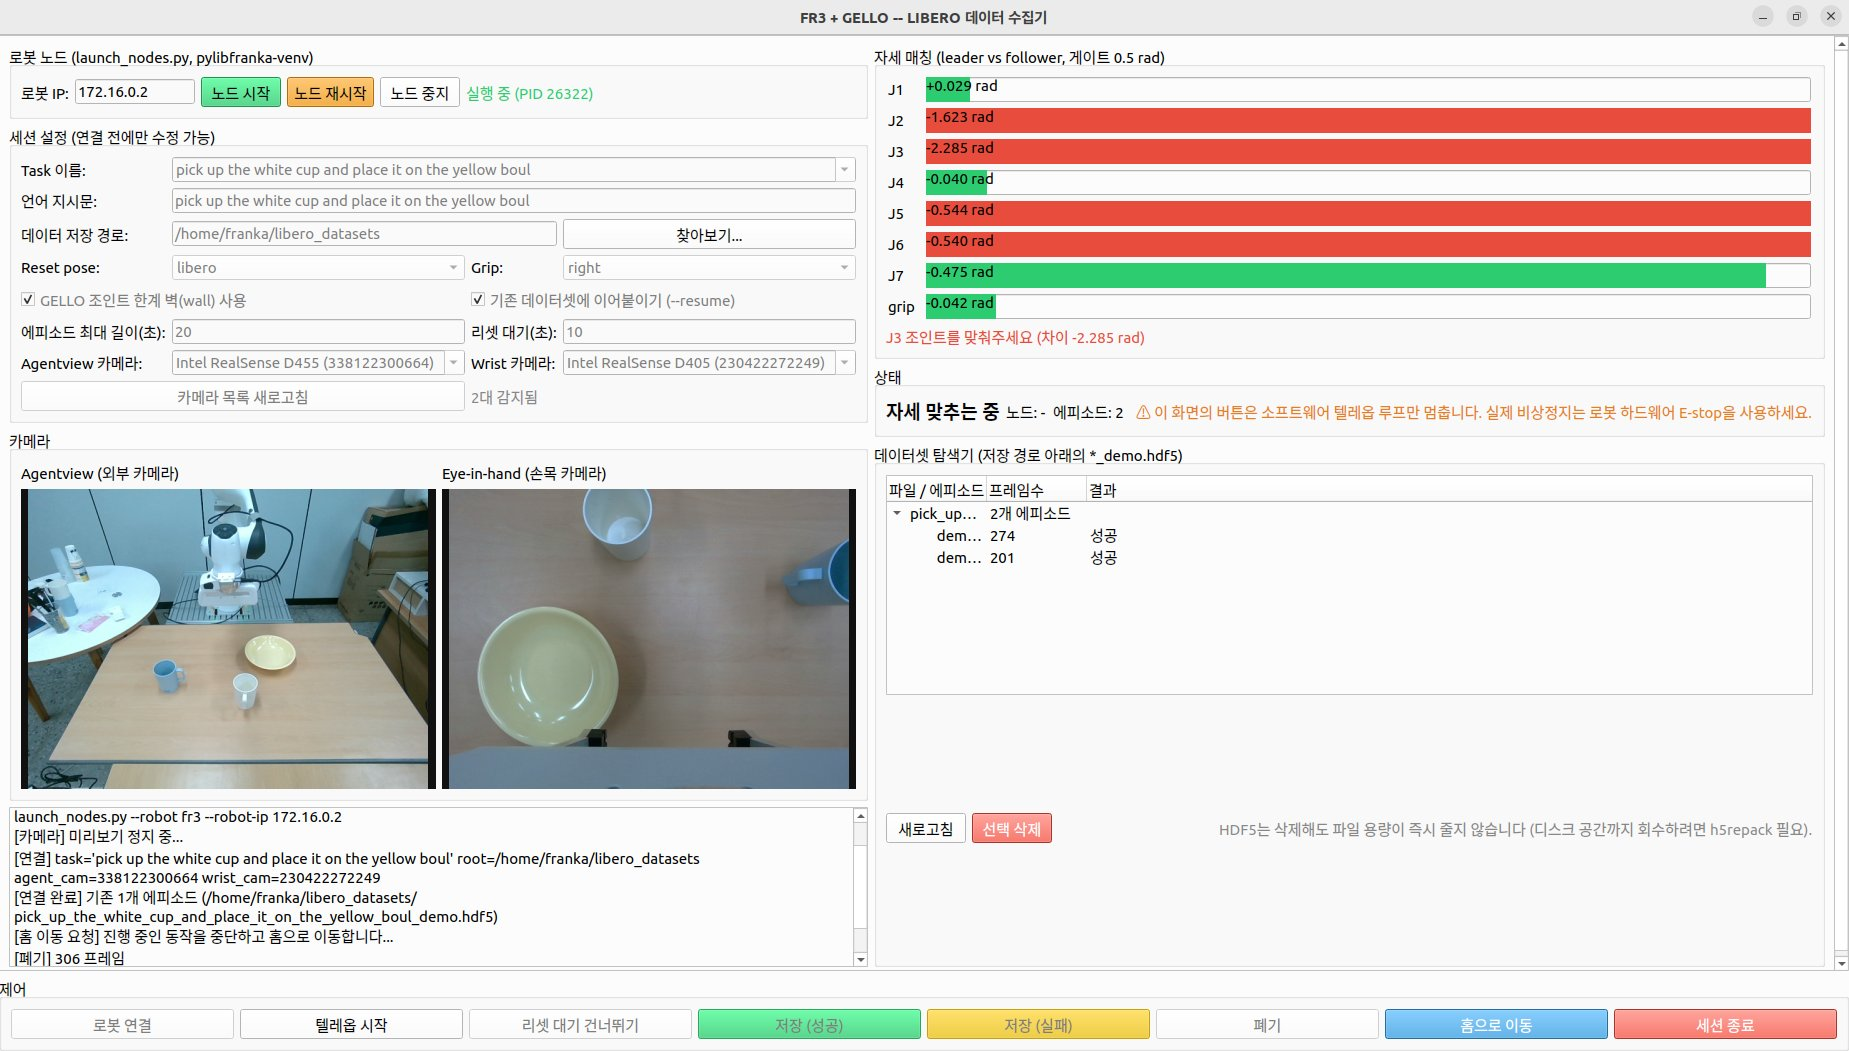
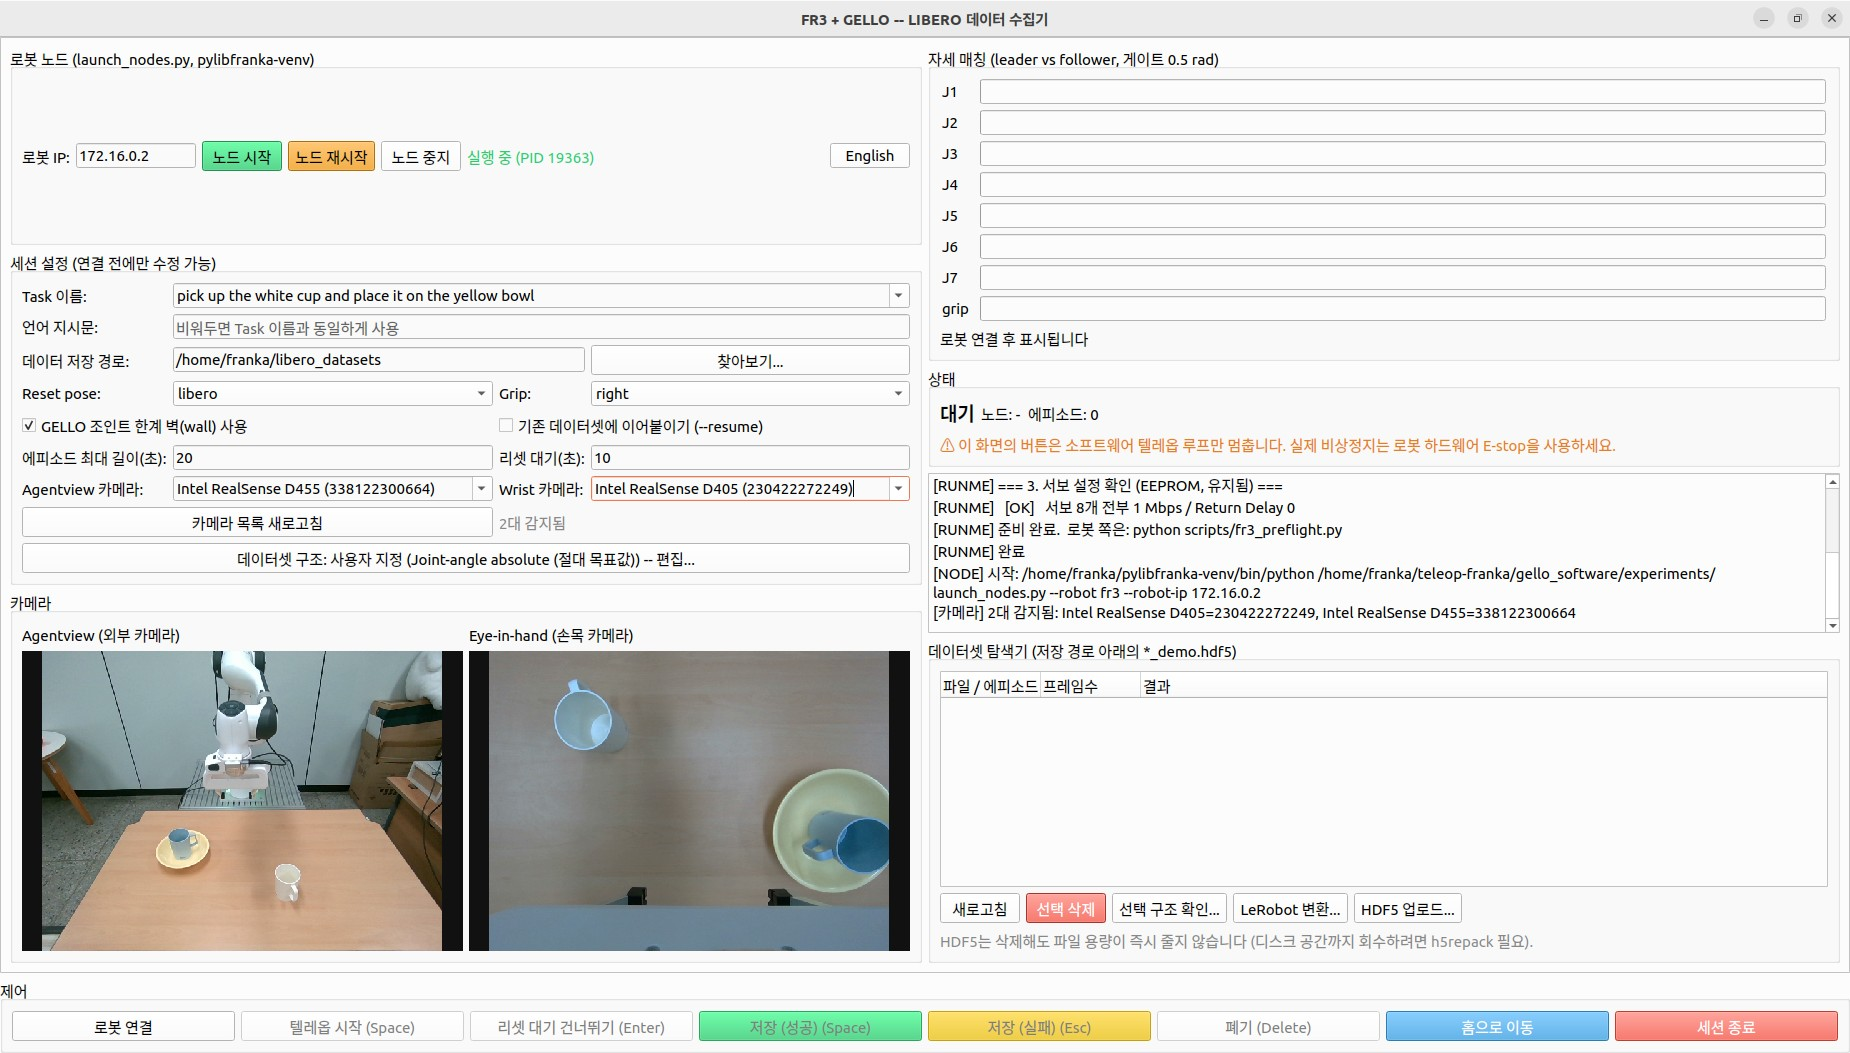
README: document --resume, HDF5 upload, i18n toggle, custom action names, session-restore; update GUI screenshot

diff --git a/README.md b/README.md
@@ -6,11 +6,13 @@
   <img src="imgs/libero_collector_gui.jpg" width="90%" />
 </p>
 
-- **`experiments/collect_libero_gui.py`** -- PyQt6 메인 GUI. 로봇 노드(`launch_nodes.py`)를 GUI 안에서 직접 시작/재시작/중지 (별도 터미널 불필요), 저장된 task 이름을 드롭다운으로 다시 선택(--resume 자동 체크), 연결 전에도 카메라 드롭다운 선택 시 실시간 미리보기, 자세 매칭 게이트(조인트별 델타 바), 세션/에피소드 제어, 데이터셋 탐색기(파일·에피소드 목록/삭제/실제 구조 확인), 홈으로 이동 버튼, 세션 종료 시 요약, GUI 내에서 바로 LeRobot 포맷 변환/업로드. 한손 조작용 단축키(Space/Esc/Delete/Enter), 세션 로그를 파일로도 저장. GUI 시작 시 `scripts/runme.sh`(USB latency timer, CPU governor 튜닝)를 자동 실행 -- 터미널 없이 바탕화면 아이콘으로 켜도 `pkexec` GUI 비밀번호 창으로 동작.
+- **`experiments/collect_libero_gui.py`** -- PyQt6 메인 GUI. 로봇 노드(`launch_nodes.py`)를 GUI 안에서 직접 시작/재시작/중지 (별도 터미널 불필요), 저장된 task 이름을 드롭다운으로 다시 선택하면 언어 지시문뿐 아니라 그 파일의 마지막 세션에서 쓰인 Reset pose/Grip/GELLO wall/에피소드 길이/리셋 대기/데이터셋 구조까지 그대로 복원(--resume 자동 체크; 카메라 선택은 제외 -- 지금 꽂혀 있는 카메라와는 무관), 연결 전에도 카메라 드롭다운 선택 시 실시간 미리보기, 자세 매칭 게이트(조인트별 델타 바), 세션/에피소드 제어, 데이터셋 탐색기(저장 경로 바로 아래 파일만 전체 경로로 표시, 에피소드 목록/삭제/실제 구조 확인), 홈으로 이동 버튼, 세션 종료 시 요약, GUI 내에서 바로 HDF5 원본 업로드 및 LeRobot 포맷 변환/업로드. 오른쪽 위 English/한국어 토글로 창 제목·버튼·다이얼로그·상태 표시까지 UI 전체 언어를 즉시 전환(로그 패널·서브프로세스 출력은 한국어 그대로). 한손 조작용 단축키(Space/Esc/Delete/Enter), 세션 로그를 파일로도 저장. GUI 시작 시 `scripts/runme.sh`(USB latency timer, CPU governor 튜닝)를 자동 실행 -- 터미널 없이 바탕화면 아이콘으로 켜도 `pkexec` GUI 비밀번호 창으로 동작.
 - **`gello/libero_gui_worker.py`** -- `record_dataset.py`의 홈복귀→리셋대기→자세게이트→접근램프→기록 상태 머신을 커맨드큐+Qt시그널 방식으로 이식한 백그라운드 `QThread`.
-- **`gello/libero_format.py`** -- LIBERO 표준 HDF5(`<task>_demo.hdf5`) writer.
-- **`gello/dataset_schema.py`** -- 저장할 데이터 구조를 세션별로 커스터마이징. GUI의 "데이터셋 구조: 기본/사용자 지정" 버튼에서: action space 선택(EE-delta/EE-pose absolute/Joint-angle delta/Joint-angle absolute), action에 그리퍼 포함 여부, 그리퍼 인코딩(-1/+1 robosuite 관례 vs observation과 동일한 0/1), 저장할 observation 필드 선택(이미지 2종/joint states/gripper state/EE pos·ori·states), 추가 필드(joint velocities, timestamp), 이미지 해상도(256x256 LIBERO 기본 vs 원본 해상도). "기본값 사용"이 켜져 있으면 나머지 설정과 무관하게 항상 원래 LIBERO 고정 스키마(EE-delta, 그리퍼 -1/+1, obs 전부, 256x256)로 저장됨 -- GELLO는 조인트 공간으로 텔레옵하지만 기본 action은 실현된 EE 궤적에서 계산한 델타 포즈(OSC_POSE 스타일, [-1,1] 정규화)로 LIBERO 관례에 맞춤. 선택은 `~/libero_gui_logs/dataset_schema.json`에 저장되어 다음 실행에도 유지.
-- **`scripts/convert_libero_to_lerobot.py`** -- 위 스키마를 실제로 반영해 변환 (파일의 `obs`/`actions` 실물을 읽어 action space·obs 필드·그리퍼 포함 여부를 자동 감지, 여러 파일을 함께 변환할 때 스키마가 다르면 변환 시작 전에 에러로 막음). 이미지는 아직 256x256만 지원 -- "원본 해상도 유지"로 수집한 파일은 변환 전 에러로 안내.
+- **`gello/libero_format.py`** -- LIBERO 표준 HDF5(`<task>_demo.hdf5`) writer. 재시작된 `launch_nodes.py` 같은 자식 프로세스가 fork+exec로 파일 fd를 물려받아 계속 잠가버리는 문제를 막기 위해 `FD_CLOEXEC` 설정.
+- **`gello/dataset_schema.py`** -- 저장할 데이터 구조를 세션별로 커스터마이징. GUI의 "데이터셋 구조: 기본/사용자 지정" 버튼에서: action space 선택(EE-delta/EE-pose absolute/Joint-angle delta/Joint-angle absolute), action에 그리퍼 포함 여부, 그리퍼 인코딩(-1/+1 robosuite 관례 vs observation과 동일한 0/1), action의 각 열 이름을 개별로 오버라이드(기본값은 observation과 맞춰짐 -- 예: Joint-angle absolute는 `joint1.pos`.."joint7.pos"/`gripper.pos`), 저장할 observation 필드 선택(이미지 2종/joint states/gripper state/EE pos·ori·states), 추가 필드(joint velocities, timestamp), 이미지 해상도(256x256 LIBERO 기본 vs 원본 해상도). "기본값 사용"이 켜져 있으면 나머지 설정과 무관하게 항상 원래 LIBERO 고정 스키마(EE-delta, 그리퍼 -1/+1, obs 전부, 256x256)로 저장됨 -- GELLO는 조인트 공간으로 텔레옵하지만 기본 action은 실현된 EE 궤적에서 계산한 델타 포즈(OSC_POSE 스타일, [-1,1] 정규화)로 LIBERO 관례에 맞춤. 선택은 `~/libero_gui_logs/dataset_schema.json`에 저장되어 다음 실행에도 유지.
+- **`scripts/convert_libero_to_lerobot.py`** -- 위 스키마를 실제로 반영해 변환 (파일의 `obs`/`actions` 실물을 읽어 action space·obs 필드·그리퍼 포함 여부·커스텀 열 이름까지 자동 감지, 여러 파일을 함께 변환할 때 스키마가 다르면 변환 시작 전에 에러로 막음). `--resume`으로 이미 Hub에 올라간 데이터셋에 새 task의 에피소드만 이어붙이는 진짜 증분 업로드 지원 -- 기존 task는 재변환/재인코딩하지 않음 (다만 두 명이 동시에 같은 repo에 --resume+push 하면 서로 덮어써서 데이터가 조용히 유실될 수 있음 -- 스크립트 docstring과 GUI 경고 문구 참고). 이미지는 아직 256x256만 지원 -- "원본 해상도 유지"로 수집한 파일은 변환 전 에러로 안내.
+- **`scripts/upload_to_hub.py`** -- 변환 없이 원본 HDF5 파일 자체를 Hugging Face Hub 데이터셋 repo에 그대로 업로드 (GUI의 데이터셋 탐색기 "HDF5 업로드..." 버튼). raw HDF5와 LeRobot 변환본을 각각 다른 repo에 올리는 이원화 업로드 과정은 별도 정리해둠.
+- **`gello/i18n.py`** -- GUI 오른쪽 위 English/한국어 토글이 쓰는 문자열 테이블. 실시간 로그·서브프로세스(runme.sh, 변환/업로드 스크립트) 출력은 번역 대상이 아니라 한국어 그대로 유지.
 - **버그 수정 (기존 파일)**: `GelloAgent.close()`가 leader의 Dynamixel 시리얼 포트를 한 번도 닫지 않아, 같은 프로세스에서 재연결 시 포트가 자기 자신에 의해 점유된 것으로 잡혀 `fuser -k`가 자기 자신을 죽이는 버그를 고침 (`gello/agents/gello_agent.py`, `gello/robots/dynamixel.py`, `gello/dynamixel/driver.py`). 홈 복귀 중 그리퍼가 직전 상태를 그대로 유지하던(안 열리던) 버그도 고침 (`gello/libero_gui_worker.py`의 `_ramp_to`).
 
 실행: `run_libero_collector.sh` 또는 바탕화면 바로가기로 GUI만 켜면, 그 안에서 로봇 노드까지 관리 가능.
